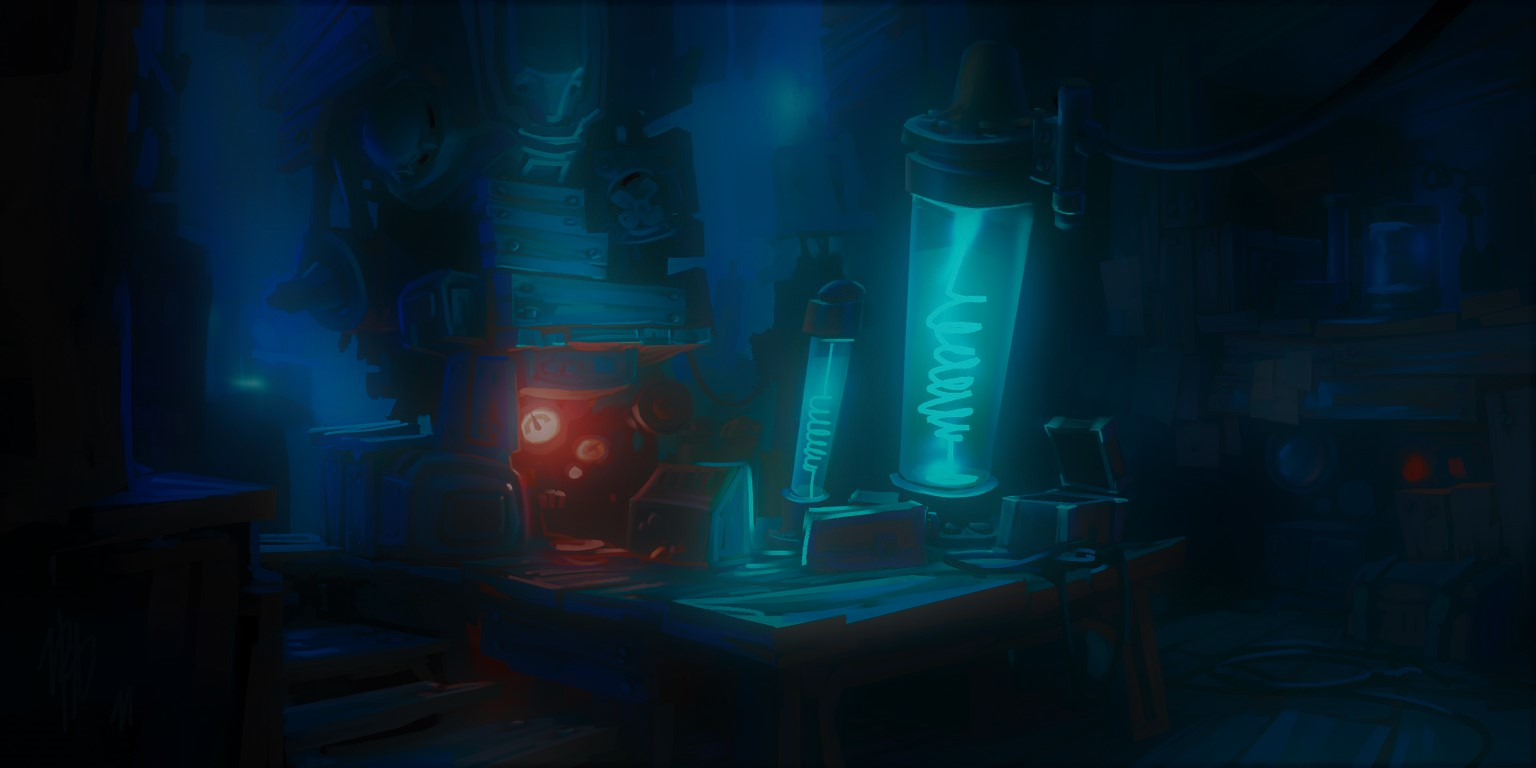
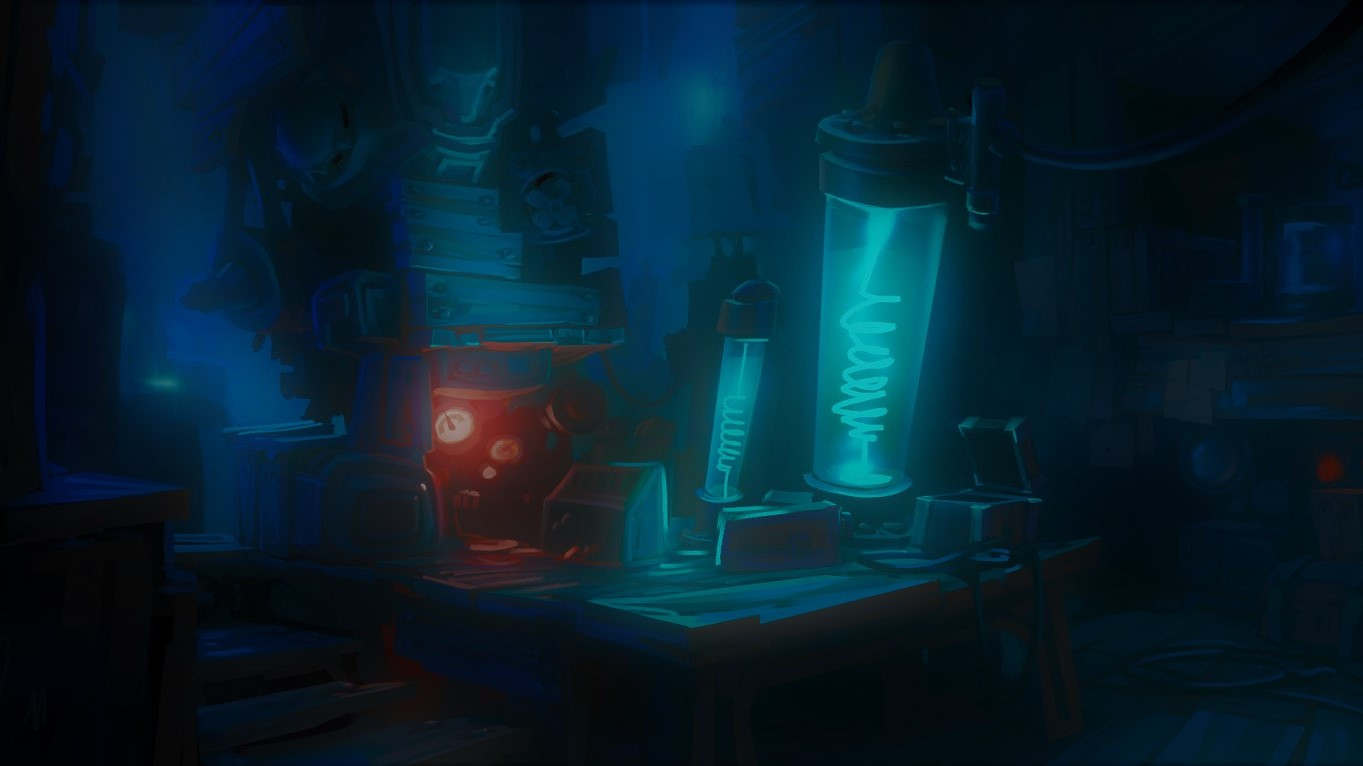
responsive bg image

diff --git a/vue/css/classement.css b/vue/css/classement.css
@@ -137,7 +137,7 @@ body{
     position : fixed;
     z-index :-1000;
     min-height : 100%;
-
+    min-width : 100%;
     width : auto;
     height : auto;
 
